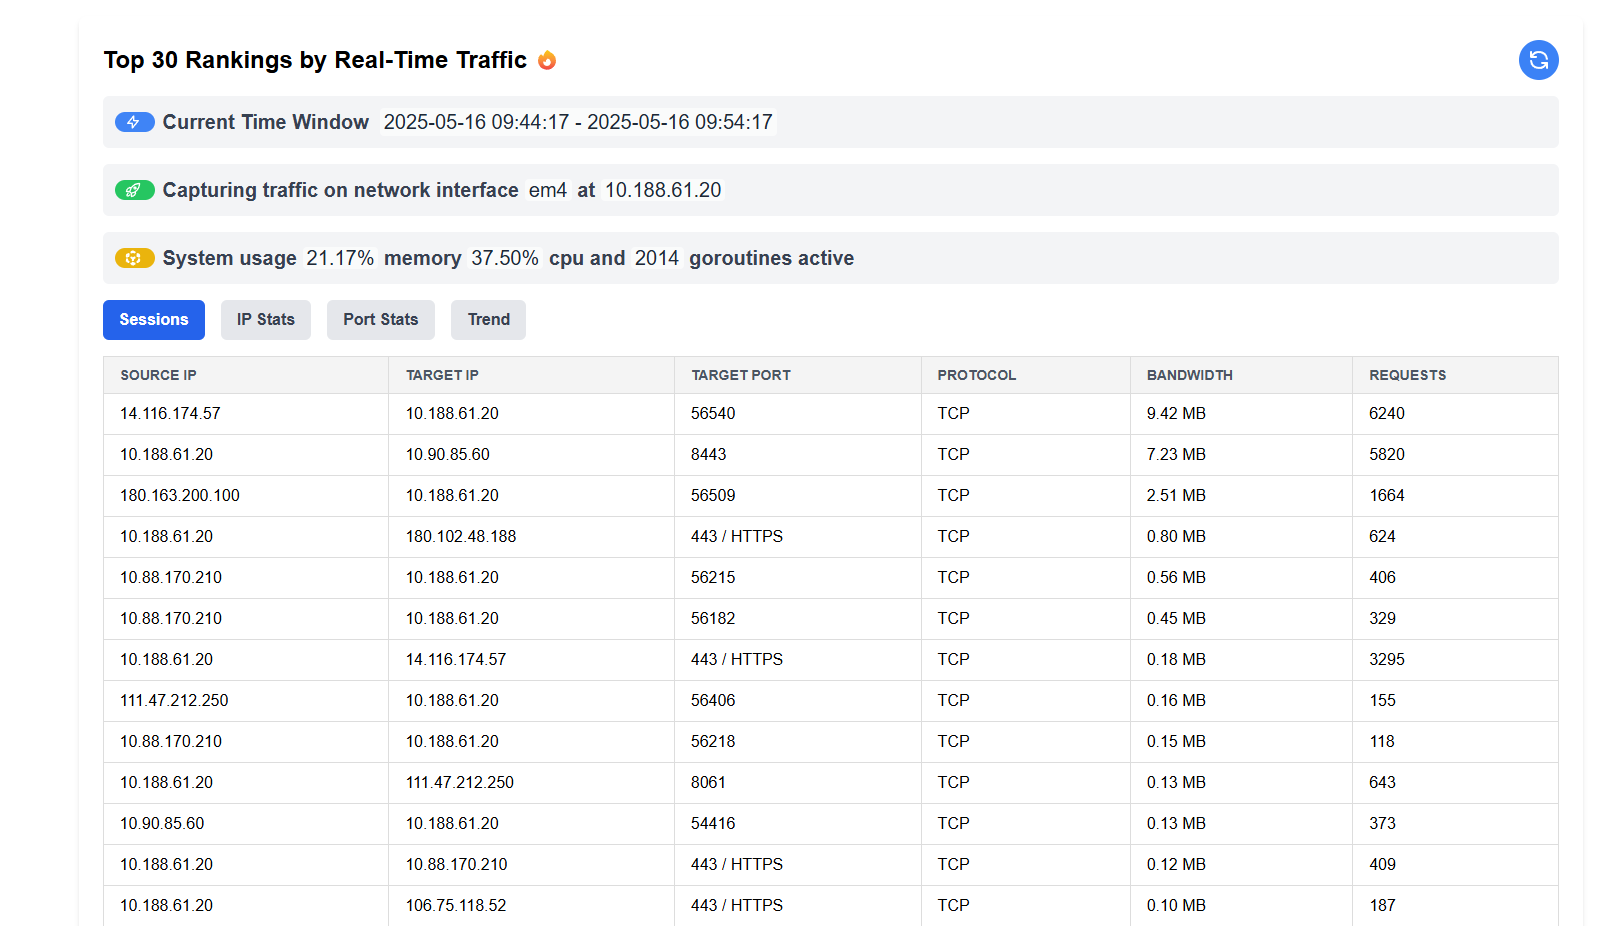
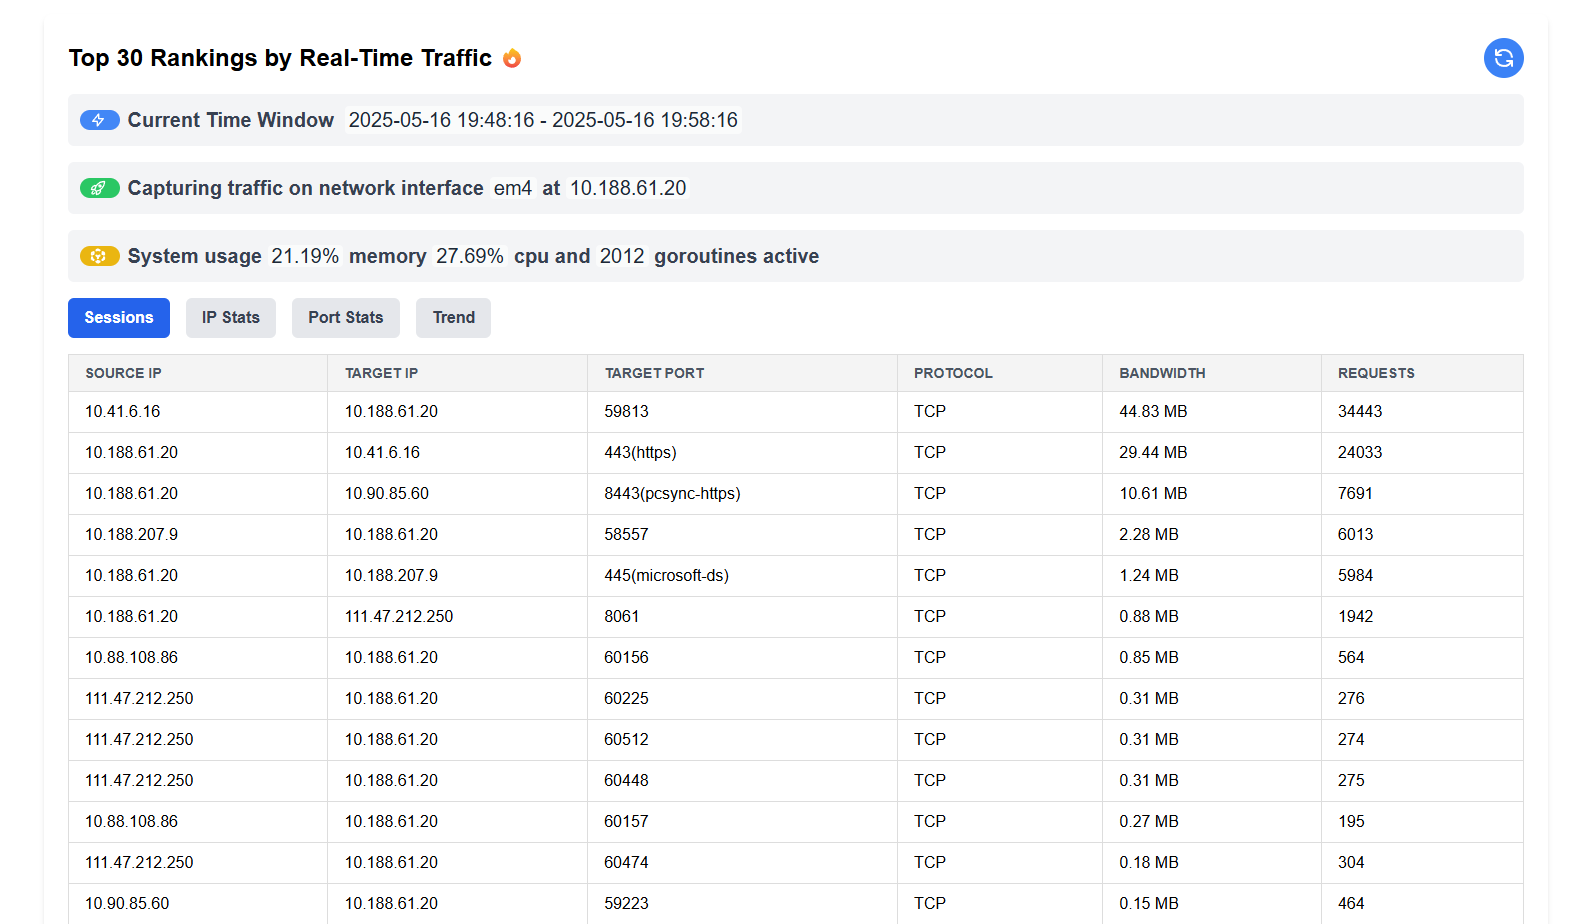
refactor: replace static port map with dynamic detection via gopacket tcp/udp.DstPort.String()

diff --git a/flow/flow.go b/flow/flow.go
@@ -96,7 +96,7 @@ type Traffic struct {
 	Timestamp time.Time `json:"timestamp"`
 	SrcIP     string    `json:"src_ip"`
 	DstIP     string    `json:"dest_ip"`
-	DstPort   uint16    `json:"dest_port"`
+	DstPort   string    `json:"dest_port"`
 	Protocol  string    `json:"protocol"`
 	Bytes     float64   `json:"bandwidth"`
 	Requests  int64     `json:"requests"`
@@ -112,7 +112,7 @@ type IPTraffic struct {
 
 type PortTraffic struct {
 	Protocol string  `json:"protocol"`
-	DstPort  uint16  `json:"dest_port"`
+	DstPort  string  `json:"dest_port"`
 	Bytes    float64 `json:"bytes"`
 	Unit     string  `json:"unit"`
 }
@@ -141,7 +141,7 @@ type Window struct {
 	cacheMu       sync.RWMutex
 	lastCalc      time.Time
 	Rank          int
-	portStats     map[uint16]PortTraffic
+	portStats     map[string]PortTraffic
 	portCache     []PortTraffic
 	srcToDstStats map[string]map[string]bool
 	dstToSrcStats map[string]map[string]bool
@@ -160,7 +160,7 @@ func NewWindow(size time.Duration, rank int) *Window {
 	return &Window{
 		buckets:       buckets,
 		size:          size,
-		portStats:     make(map[uint16]PortTraffic),
+		portStats:     make(map[string]PortTraffic),
 		ipStats:       make(map[string]Traffic),
 		Rank:          rank,
 		srcToDstStats: make(map[string]map[string]bool),
@@ -241,7 +241,7 @@ func (w *Window) Add(traffic Traffic) {
 
 func (w *Window) PortSummary() []PortTraffic {
 	w.statsMu.RLock()
-	portStats := make(map[uint16]PortTraffic, len(w.portStats))
+	portStats := make(map[string]PortTraffic, len(w.portStats))
 	totalBytes := 0.0
 	for port, s := range w.portStats {
 		if s.Bytes > 0 {
@@ -471,7 +471,7 @@ func Capture(device string, pool *async.WorkerPool, w *Window) {
 			pool.Add(func(args ...interface{}) error {
 				pt := args[0].(gopacket.Packet)
 				var ipStr, dstIP, protocol string
-				var dstPort uint16
+				var dstPort string
 				if ipLayer := pt.Layer(layers.LayerTypeIPv4); ipLayer != nil {
 					ip, _ := ipLayer.(*layers.IPv4)
 					ipStr = ip.SrcIP.String()
@@ -482,11 +482,11 @@ func Capture(device string, pool *async.WorkerPool, w *Window) {
 				if tcpLayer := pt.Layer(layers.LayerTypeTCP); tcpLayer != nil {
 					tcp, _ := tcpLayer.(*layers.TCP)
 					protocol = "TCP"
-					dstPort = uint16(tcp.DstPort)
+					dstPort = tcp.DstPort.String()
 				} else if udpLayer := pt.Layer(layers.LayerTypeUDP); udpLayer != nil {
 					udp, _ := udpLayer.(*layers.UDP)
 					protocol = "UDP"
-					dstPort = uint16(udp.DstPort)
+					dstPort = udp.DstPort.String()
 				} else {
 					return nil
 				}
@@ -576,7 +576,7 @@ func Capture(device string, pool *async.WorkerPool, w *Window) {
 	}
 }
 
-func getKey(ip, dstIP, protocol string, dstPort uint16) string {
+func getKey(ip, dstIP, protocol string, dstPort string) string {
 	return fmt.Sprintf("%s|%s|%s|%d", ip, dstIP, protocol, dstPort)
 }
 
@@ -702,21 +702,10 @@ func (w *Window) ServeHTTP(wr http.ResponseWriter, r *http.Request) {
 		w.cacheMu.RUnlock()
 		resp := make([]TopItem, len(top))
 		for i, s := range top {
-			var (
-				ok      bool
-				service string
-				portStr = fmt.Sprintf("%d", s.DstPort)
-			)
-			service, ok = utils.PortMapping[portStr]
-			if !ok {
-				service = portStr
-			} else {
-				service = fmt.Sprintf("%s / %s", portStr, service)
-			}
 			resp[i] = TopItem{
 				SrcIP:     s.SrcIP,
 				DstIP:     s.DstIP,
-				DstPort:   service,
+				DstPort:   s.DstPort,
 				Protocol:  s.Protocol,
 				Bandwidth: s.Bytes,
 				Unit:      s.Unit,
@@ -760,19 +749,8 @@ func (w *Window) ServeHTTP(wr http.ResponseWriter, r *http.Request) {
 		w.cacheMu.RUnlock()
 		response := make([]PortResponse, len(top))
 		for i, s := range top {
-			var (
-				ok      bool
-				dPort   string
-				portStr = fmt.Sprintf("%d", s.DstPort)
-			)
-			dPort, ok = utils.PortMapping[portStr]
-			if !ok {
-				dPort = portStr
-			} else {
-				dPort = fmt.Sprintf("%s / %s", portStr, dPort)
-			}
 			response[i] = PortResponse{
-				DstPort:  dPort,
+				DstPort:  s.DstPort,
 				Bytes:    s.Bytes,
 				Protocol: s.Protocol,
 				Unit:     s.Unit,

diff --git a/utils/utils.go b/utils/utils.go
@@ -25,51 +25,6 @@ func init() {
 	Ctx, Cancel = context.WithCancel(context.Background())
 }
 
-var PortMapping = map[string]string{
-	"20":    "FTP",
-	"21":    "FTP",
-	"22":    "SSH",
-	"23":    "Telnet",
-	"25":    "SMTP",
-	"53":    "DNS",
-	"69":    "TFTP",
-	"80":    "HTTP",
-	"110":   "POP3",
-	"123":   "NTP",
-	"135":   "MS-RPC",
-	"139":   "NetBIOS-SSN",
-	"143":   "IMAP",
-	"161":   "SNMP",
-	"162":   "SNMP",
-	"179":   "BGP",
-	"389":   "LDAP",
-	"443":   "HTTPS",
-	"445":   "SMB",
-	"465":   "SMTPS",
-	"514":   "Syslog",
-	"587":   "SMTP-Submission",
-	"636":   "LDAPS",
-	"993":   "IMAPS",
-	"995":   "POP3S",
-	"1433":  "SQL-Server",
-	"1521":  "Oracle",
-	"1723":  "PPTP",
-	"2379":  "Etcd",
-	"2181":  "ZooKeeper",
-	"27017": "MongoDB",
-	"3306":  "MySQL",
-	"3389":  "RDP",
-	"5432":  "PostgreSQL",
-	"5601":  "Kibana",
-	"5672":  "RabbitMQ",
-	"6379":  "Redis",
-	"8500":  "Consul",
-	"9092":  "Kafka",
-	"9200":  "Elasticsearch",
-	"10050": "Zabbix",
-	"10051": "Zabbix",
-}
-
 func GetTimeRangeString(minutes int) string {
 	now := time.Now()
 	start := now.Add(-time.Duration(minutes * int(time.Minute)))
